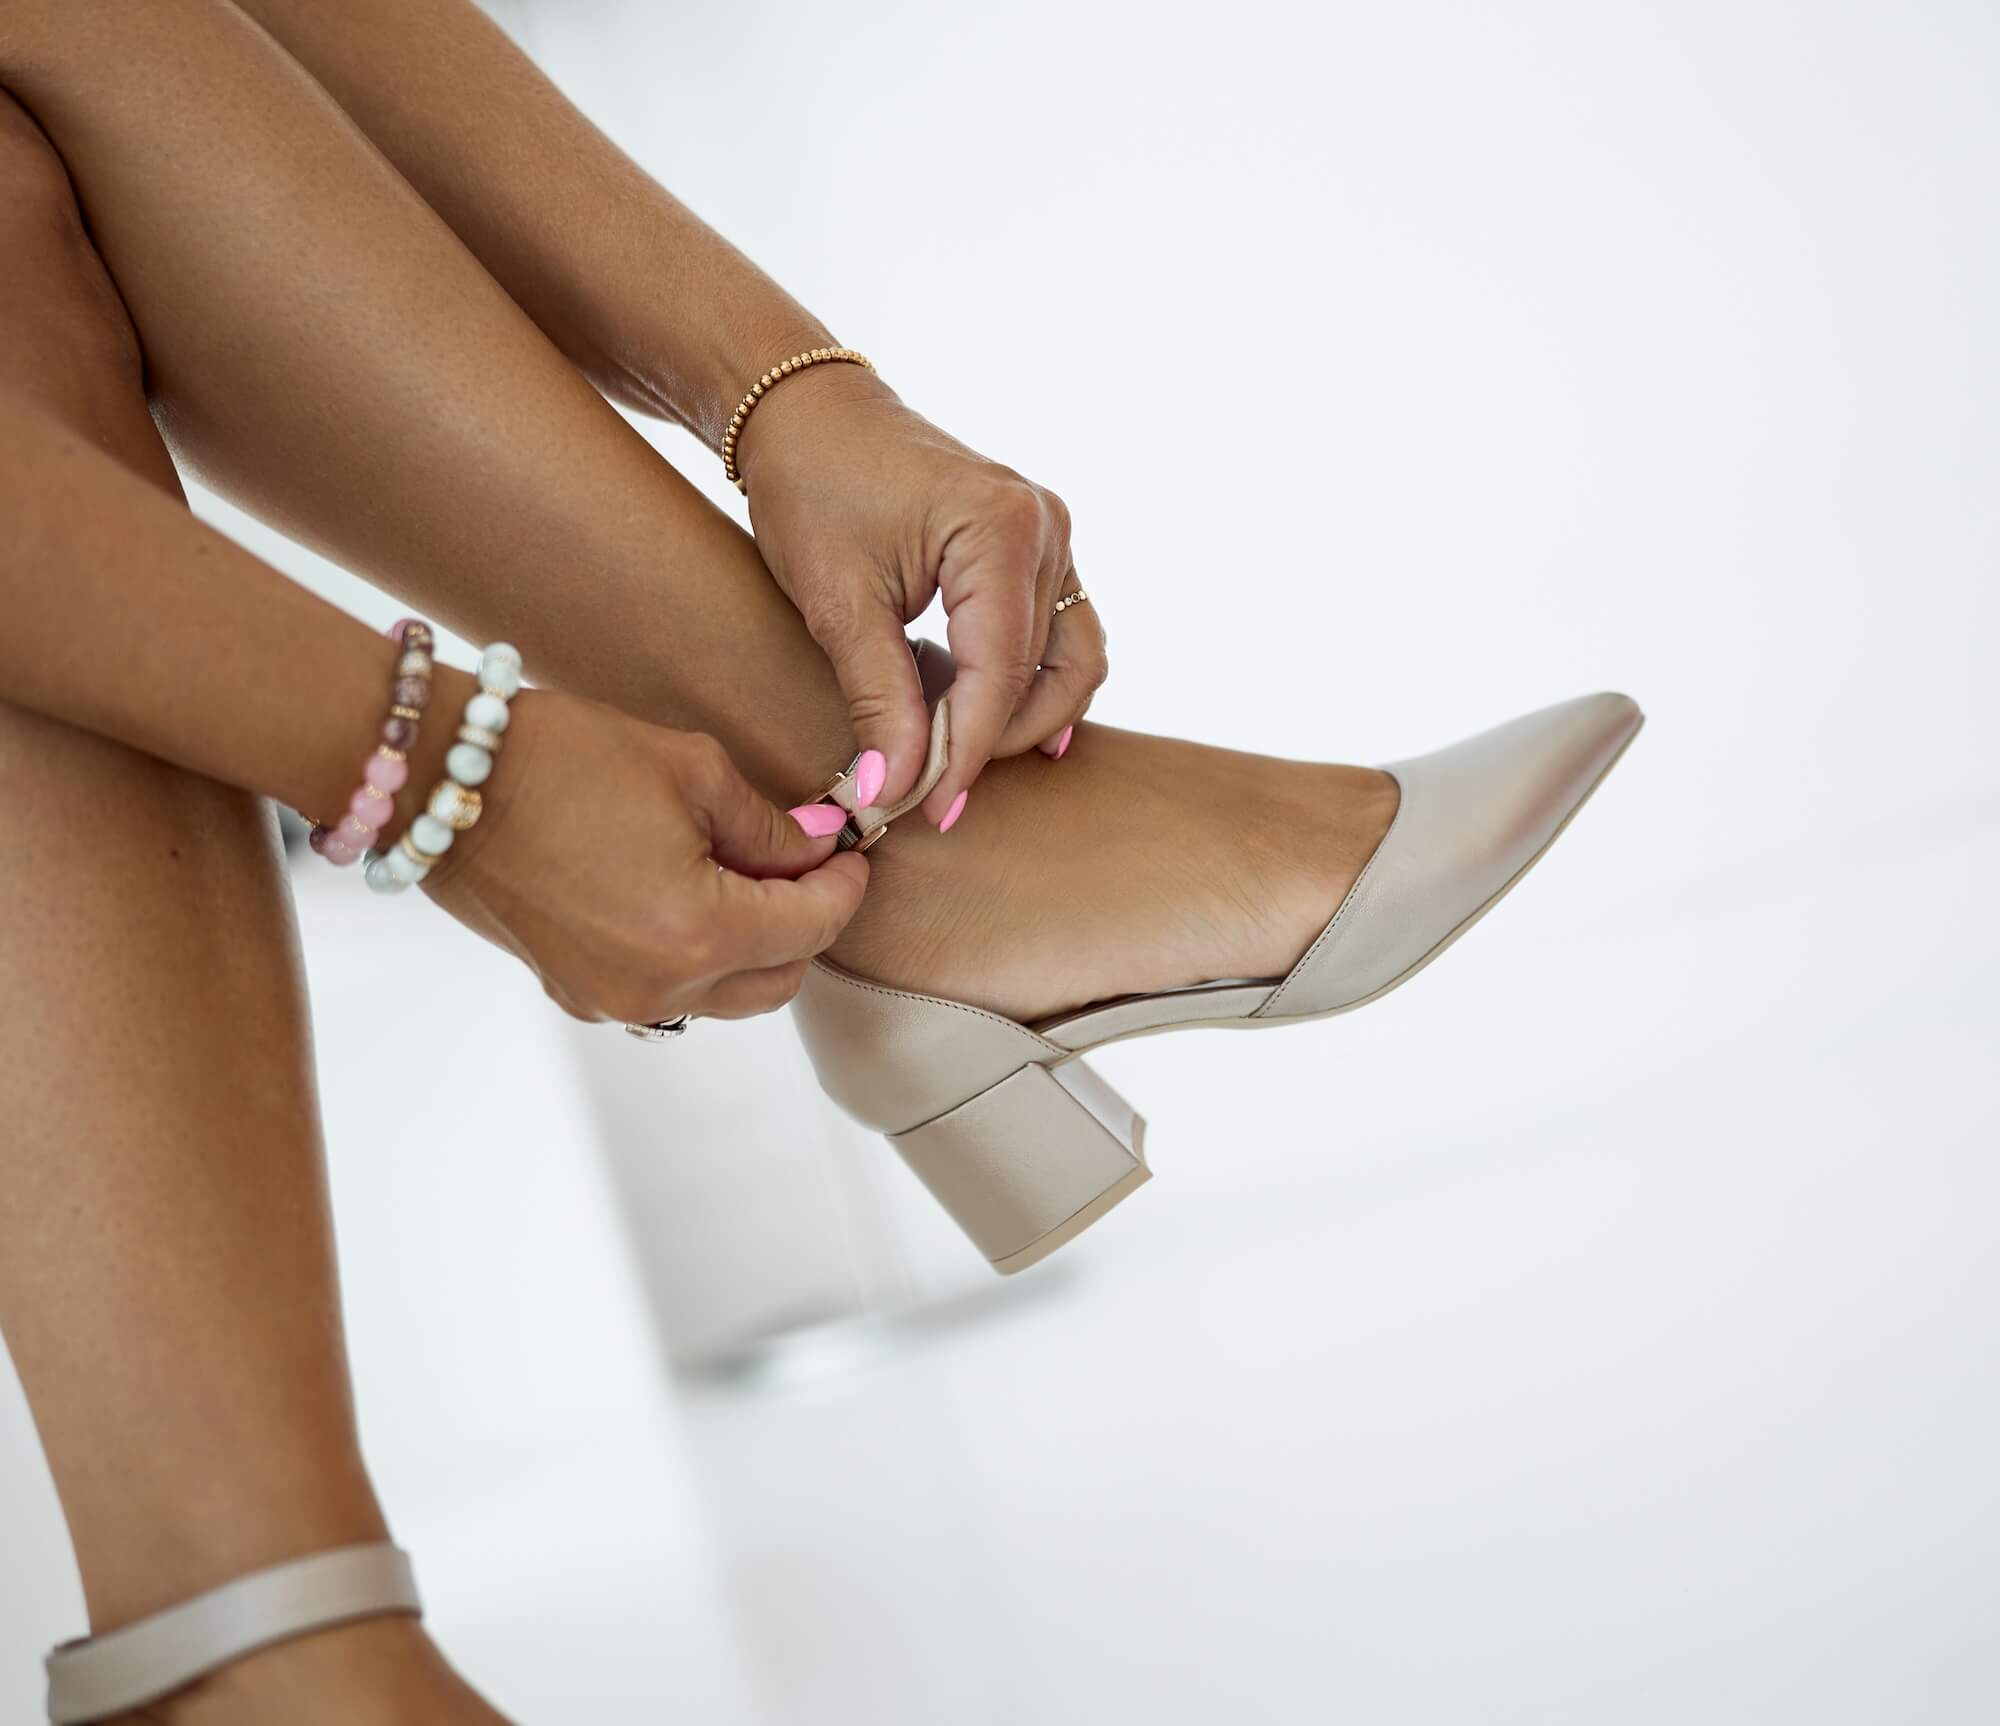
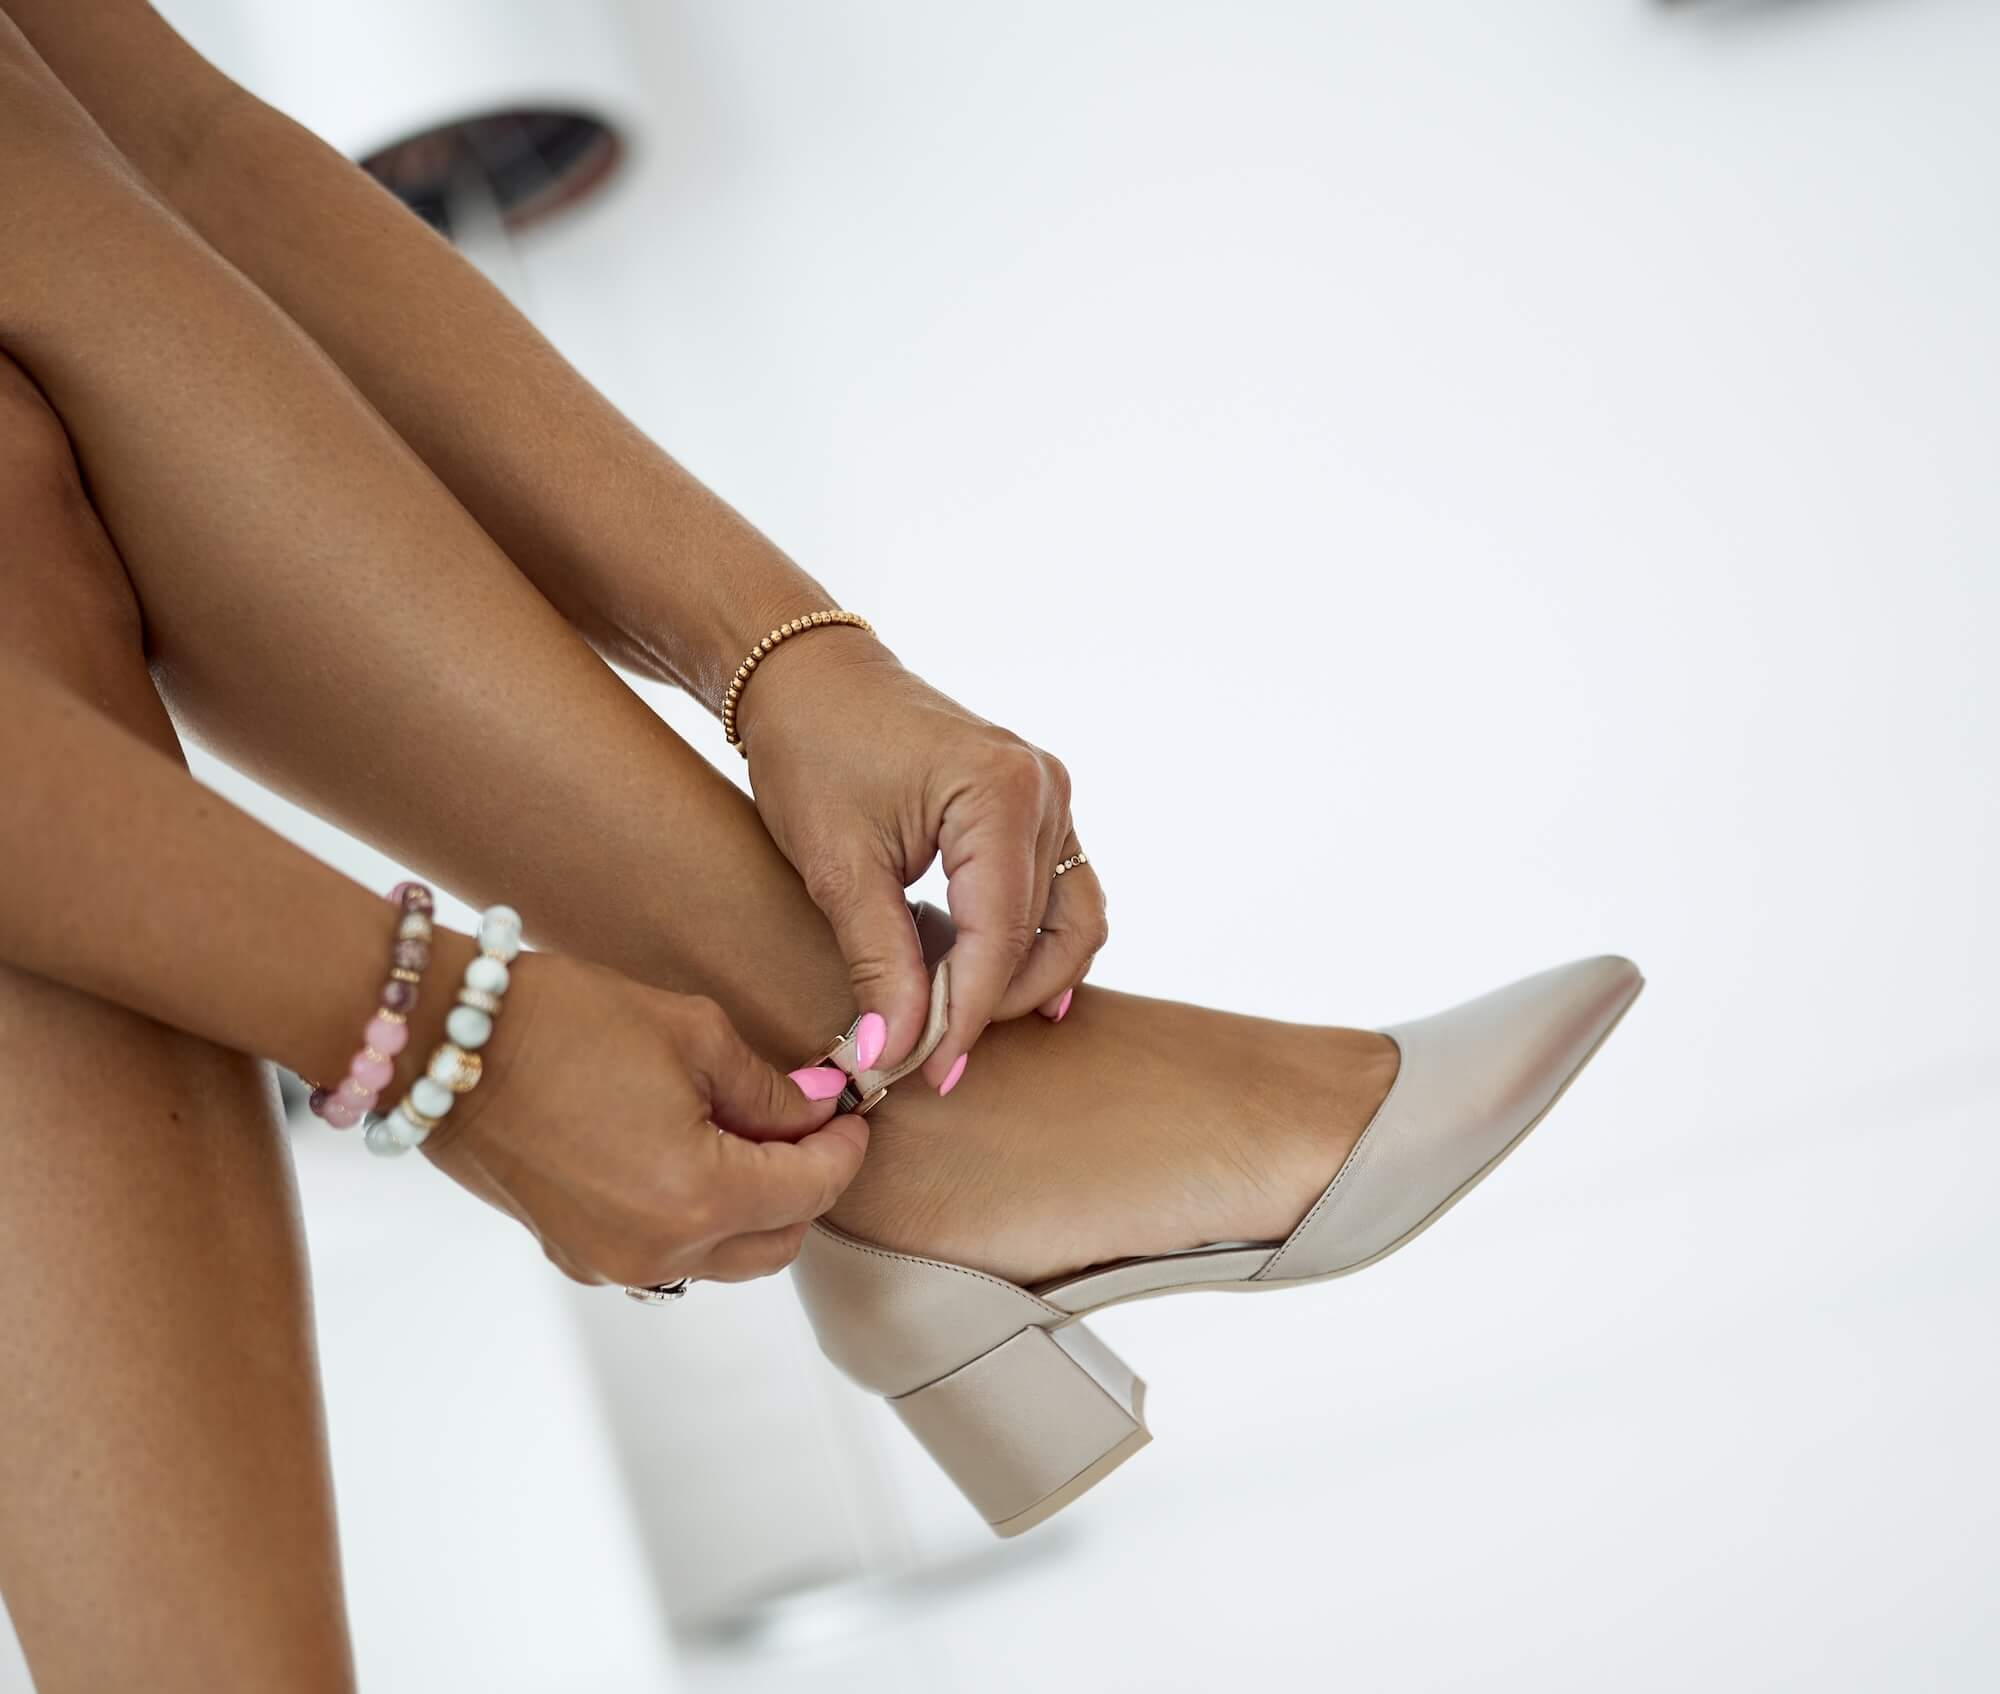
a

diff --git a/awakening-session.html b/awakening-session.html
@@ -50,7 +50,7 @@ seo:
 
 
 
-
+<!-- 
 <section class="bg-image bg-overlay bg-footer-bottom tall-70 xs-tall-40 flex-center text-white">
     <div class="padded">
       <div class="relative center">
@@ -60,7 +60,7 @@ seo:
         <a href="/termin-buchen.html" class="button-footer" onclick="return gtag_report_conversion(this.href)"> Ich freue mich von dir zu hören. :) </a>
       </div>
     </div>
-  </section>
+  </section> -->
 
 
   <script>

diff --git a/dein-awakening-1-zu-1-vip.html b/dein-awakening-1-zu-1-vip.html
@@ -274,7 +274,7 @@ testimonials:
 </section>
 {% endfor %} -->
 
-<section class="bg-image bg-overlay bg-footer-bottom tall-70 xs-tall-40 flex-center text-white">
+<!-- <section class="bg-image bg-overlay bg-footer-bottom tall-70 xs-tall-40 flex-center text-white">
     <div class="padded">
       <div class="relative center">
           <img src="/images/neu/index/baum-footer.svg" />
@@ -283,4 +283,4 @@ testimonials:
         <a href="/termin-buchen.html" class="button-footer"> Ich freue mich von dir zu hören. :) </a>
       </div>
     </div>
-</section>
+</section> -->

diff --git a/index.html b/index.html
@@ -338,7 +338,7 @@ testimonials:
   </section>
 
 
-<section class="bg-image bg-overlay bg-footer-bottom tall-70 xs-tall-40 flex-center text-white">
+<!-- <section class="bg-image bg-overlay bg-footer-bottom tall-70 xs-tall-40 flex-center text-white">
   <div class="padded">
     <div class="relative center">
         <img src="/images/neu/index/baum-footer.svg" />
@@ -347,4 +347,4 @@ testimonials:
       <a href="/termin-buchen.html" class="button-footer"> Ich freue mich von dir zu hören. :) </a>
     </div>
   </div>
-</section>
+</section> -->

diff --git a/_includes/site-header.html b/_includes/site-header.html
@@ -40,16 +40,19 @@
     <a href="/awake-your-soul.html" class="relative"> Awake your Soul  </a>
     <p> Gruppenkurse </p>
   </div> -->
+
   <div class="col-4_sm-12 padded header-link">
     <a href="/awakening-session.html" class="relative"> Awakening Session     </a>
     <!-- <a href="/awakening-session.html" class="header-link-small">  </a> <a href="/thetahealing-seminare.html" class="header-link-small"> Seminare </a>  -->
   </div>
+     <div class="col-4_sm-12 header-link"></div>
   <div class="col-4_sm-12 padded right header-link hide-sm">
     <img src="/images/logos/logo-baum.png" class="header-baum">
   </div>
   <div class="col-4_sm-12 padded header-link margin-t-c2">
     <a href="/ueber-mich.html" class="relative"> Über mich      </a>
   </div>
+     <div class="col-4_sm-12 header-link"></div>
   <div class="col-3_sm-12 padded header-link margin-t-c1">
     <a href="/termin-buchen.html" class="relative"> Termin buchen     </a>
   </div>

diff --git a/_includes/site-footer.html b/_includes/site-footer.html
@@ -52,7 +52,7 @@
           Web Design und <br /> Fotografie von <br />
           
           <a href="https://www.pajurama.com" target="_blank" class="pajurama-logo" rel="noopener"> <img src="/images/logos/pajurama-logo-neu.svg" class="pajurama-logo margin-t-04" /> </a>
-         & Iryna Vicuna 
+         & Iryna Vienna 
       </p>
     </div>
 </section>

diff --git a/style.css b/style.css
@@ -424,7 +424,7 @@ section {
 }
 
 .bg-menu {
-  background-image:  url('/images/neu/menu/menu-bg.jpg');
+  background-image:  url('/images/neu/neu/bg-menu.jpg');
 }
 
 .bg-footer-bottom {